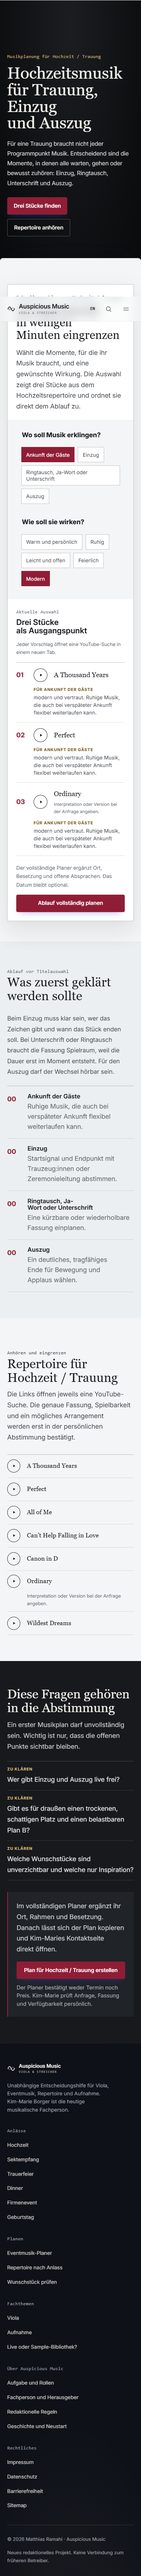
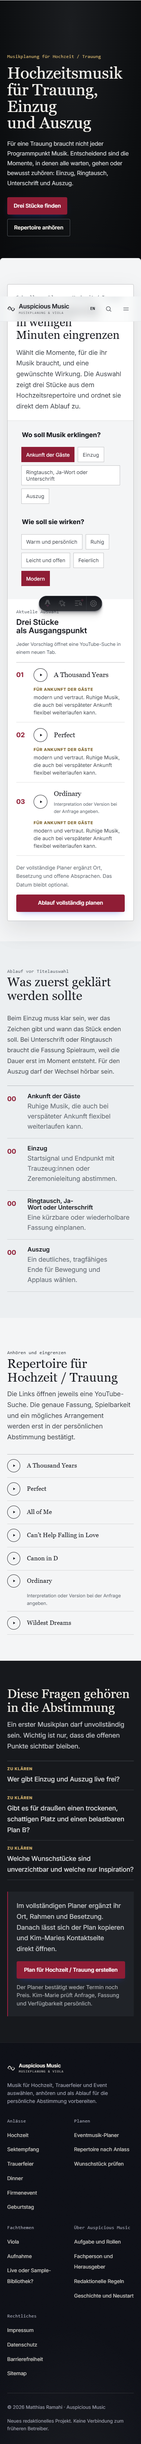
feat: align music planning identity and crawl feeds

Changed region(s): [[0.0, 0.0, 1.0, 0.9966], [0.5231, 0.9032, 0.8, 0.9343], [0.7692, 0.5294, 0.8308, 0.5917]]

diff --git a/src/data/site-strategy.ts b/src/data/site-strategy.ts
@@ -1,7 +1,7 @@
 export const siteStrategy = {
   name: 'Auspicious Music',
-  subtitle: 'Viola & Strings Lab',
-  purpose: 'Eine praktische Fachseite für Viola, Eventmusik, Repertoireentscheidungen und Aufnahme.',
+  subtitle: 'Musikplanung & Viola',
+  purpose: 'Musik für Hochzeit, Trauerfeier und Event auswählen, anhören und für die persönliche Abstimmung vorbereiten.',
   expert: {
     name: 'Kim-Marie Borger',
     role: 'Viola-Expertin und ausübende Musikerin',
@@ -13,16 +13,6 @@ export const siteStrategy = {
   },
   navigation: [
     {
-      href: '/viola/',
-      label: 'Viola',
-      children: [
-        { href: '/viola/', label: 'Viola im Einsatz', note: 'Klang, Rolle und Praxis' },
-        { href: '/viola/viola-oder-violine/', label: 'Viola oder Violine?', note: 'Register und Wirkung entscheiden' },
-        { href: '/recording/acoustic-instruments/viola-microphone-placement/', label: 'Mikrofonposition', note: 'Leitfaden · 9 Min.' },
-        { href: '/sound-design/when-to-record-strings-instead-of-using-a-library/', label: 'Live oder Sample-Bibliothek?', note: 'Entscheidungshilfe · 8 Min.' },
-      ],
-    },
-    {
       href: '/eventmusik/',
       label: 'Anlässe',
       children: [
@@ -32,6 +22,16 @@ export const siteStrategy = {
         { href: '/eventmusik/trauerfeier/', label: 'Trauerfeier', note: 'Abschied behutsam planen' },
         { href: '/eventmusik/firmenevent/', label: 'Firmenevent', note: 'Empfang, Dinner, Highlight' },
         { href: '/eventmusik/geburtstag/', label: 'Geburtstag', note: 'Überraschung oder Empfang' },
+      ],
+    },
+    {
+      href: '/viola/',
+      label: 'Viola',
+      children: [
+        { href: '/viola/', label: 'Viola im Einsatz', note: 'Klang, Rolle und Praxis' },
+        { href: '/viola/viola-oder-violine/', label: 'Viola oder Violine?', note: 'Register und Wirkung entscheiden' },
+        { href: '/recording/acoustic-instruments/viola-microphone-placement/', label: 'Mikrofonposition', note: 'Leitfaden · 9 Min.' },
+        { href: '/sound-design/when-to-record-strings-instead-of-using-a-library/', label: 'Live oder Sample-Bibliothek?', note: 'Entscheidungshilfe · 8 Min.' },
       ],
     },
     {
@@ -54,14 +54,12 @@ export const siteStrategy = {
         { href: '/recording/acoustic-instruments/viola-microphone-placement/', label: 'Viola-Mikrofonposition', note: 'Leitfaden · 9 Min.' },
       ],
     },
-    { href: '/tools/eventmusik-planer/', label: 'Planer' },
     { href: '/about/', label: 'Über uns' },
   ],
   englishNavigation: [
-    { href: '/en/', label: 'English home' },
-    { href: '/en/tools/event-music-planner/', label: 'Event planner' },
     { href: '/music-for-media/planning-live-viola-for-a-wedding-ceremony/', label: 'Wedding ceremony' },
-    { href: '/recording/', label: 'Recording strings' },
-    { href: '/about/', label: 'About' },
+    { href: '/recording/', label: 'Recording strings · DE' },
+    { href: '/viola/', label: 'Viola · DE' },
+    { href: '/about/', label: 'About · DE' },
   ],
 } as const;

diff --git a/src/pages/rss.xml.ts b/src/pages/rss.xml.ts
@@ -1,14 +1,15 @@
 import type { APIRoute } from 'astro';
 import { articles } from '../data/articles';
+import { isSearchLanding } from '../data/index-policy';
 
 const site = 'https://www.auspiciousmusic.com';
 const xml = (value: string) => value.replace(/[<>&'"]/g, (character) => ({ '<': '&lt;', '>': '&gt;', '&': '&amp;', "'": '&apos;', '"': '&quot;' })[character] ?? character);
 
 export const GET: APIRoute = () => {
-  const items = articles.map((entry) => {
+  const items = articles.filter((entry) => isSearchLanding(entry.href)).map((entry) => {
     const url = new URL(entry.href, site).href;
     return `<item><title>${xml(entry.title)}</title><link>${xml(url)}</link><guid>${xml(url)}</guid><description>${xml(entry.description)}</description></item>`;
   }).join('');
-  const body = `<?xml version="1.0" encoding="UTF-8"?><rss version="2.0" xmlns:atom="http://www.w3.org/2005/Atom"><channel><title>Auspicious Music</title><link>${site}/</link><atom:link href="${site}/rss.xml" rel="self" type="application/rss+xml"/><description>Practical, source-labelled guides for music production and creative audio.</description><language>en</language><generator>Astro</generator>${items}</channel></rss>`;
+  const body = `<?xml version="1.0" encoding="UTF-8"?><rss version="2.0" xmlns:atom="http://www.w3.org/2005/Atom"><channel><title>Auspicious Music</title><link>${site}/</link><atom:link href="${site}/rss.xml" rel="self" type="application/rss+xml"/><description>Leitfäden zu Musikplanung, Viola, Repertoire und Streicheraufnahme.</description><language>de</language><generator>Astro</generator>${items}</channel></rss>`;
   return new Response(body, { headers: { 'Content-Type': 'application/xml; charset=utf-8' } });
 };

diff --git a/docs/seo/TECHNICAL_SEO_AUDIT_2026-08-22.md b/docs/seo/TECHNICAL_SEO_AUDIT_2026-08-22.md
@@ -2,7 +2,7 @@
 
 ## Scope and launch status
 
-This audit covers the live, indexable `https://www.auspiciousmusic.com/` property and the local Astro repository. The accepted project assignment remains the Auspicious Music Strings Lab with Kim-Marie Borger as the named current viola expert and Matthias Ramahi as operator and publisher. The site is a transparent successor project, not a continuation of the former operator or catalogue.
+This audit covers the live, indexable `https://www.auspiciousmusic.com/` property and the local Astro repository. The accepted project assignment remains a German-first music-planning publication with Kim-Marie Borger as the named current viola expert and Matthias Ramahi as operator and publisher. The site is a transparent successor project, not a continuation of the former operator or catalogue.
 
 No DNS change, paid data-provider call, copied archive content, historic media publication, or blanket legacy redirect is part of this change.
 
@@ -70,3 +70,14 @@ Each new indexable URL has one primary job, a self-canonical, unique title/descr
 - Enforced CSP and HSTS remain present.
 - Final Lighthouse 13.4.1 on the live homepage: mobile 99 performance / 100 accessibility / 100 best practices / 100 SEO, LCP 1.8 s, CLS 0 and TBT 100 ms; desktop 100/100/100/100, LCP 0.5 s, CLS 0.001 and TBT 20 ms. The desktop CLI emitted a Windows temp-directory `EPERM` only during cleanup after writing the complete JSON report.
 - Google Search Console authentication and sitemap submission remain **NOT PROVEN**. No authenticated session was available and no submission was attempted.
+
+## Positioning and crawl-consistency update - 2026-08-28
+
+- Unified the visible product name as `Musikplanung & Viola`; removed the obsolete `Strings Lab` wording from current navigation, schema inputs, the about page and the legacy download-status boundary.
+- Reordered the German navigation around occasions first and removed the duplicate planner menu item because the planner remains the primary header action. English navigation now marks links to German-only pages explicitly.
+- Rewrote `/about/` around the actual user journey: occasion page, three suggestions, running order, open questions and personal review. Recording is documented as a smaller specialist branch.
+- Corrected `rss.xml` to German and restricted it to the same indexable article policy used by the sitemap. A regression test now fails if a noindex archive route enters the feed.
+- `SITE_INDEXABLE=true pnpm check` and `pnpm check:indexable`: PASS. 88 Astro files, zero diagnostics; 58 HTML pages and 104 output files validated; 30 public sitemap URLs; maximum click depth 2.
+- Focused browser QA: PASS on 17 central routes at 1440, 390 and 320 pixels, including occasion suggestions, planner, requested-song and recording-brief interactions. Full QA: PASS on 60 routes and 128 route/viewport checks, including Axe, keyboard navigation, 200%/400% reflow, forced colors, reduced motion, site search and console errors.
+- Local Chromium timing sample after warm dev-server startup: observed LCP ranged from 172 to 376 ms on the homepage, wedding page and planner at 390 and 1440 pixels. The transfer total from this development run is not a production payload measurement because Astro's development toolbar and modules dominate it.
+- Search Console access for `sc-domain:auspiciousmusic.com`: **NOT PROVEN**. The available signed-in account reported no access to the property, so no sitemap submission or property change was attempted.
